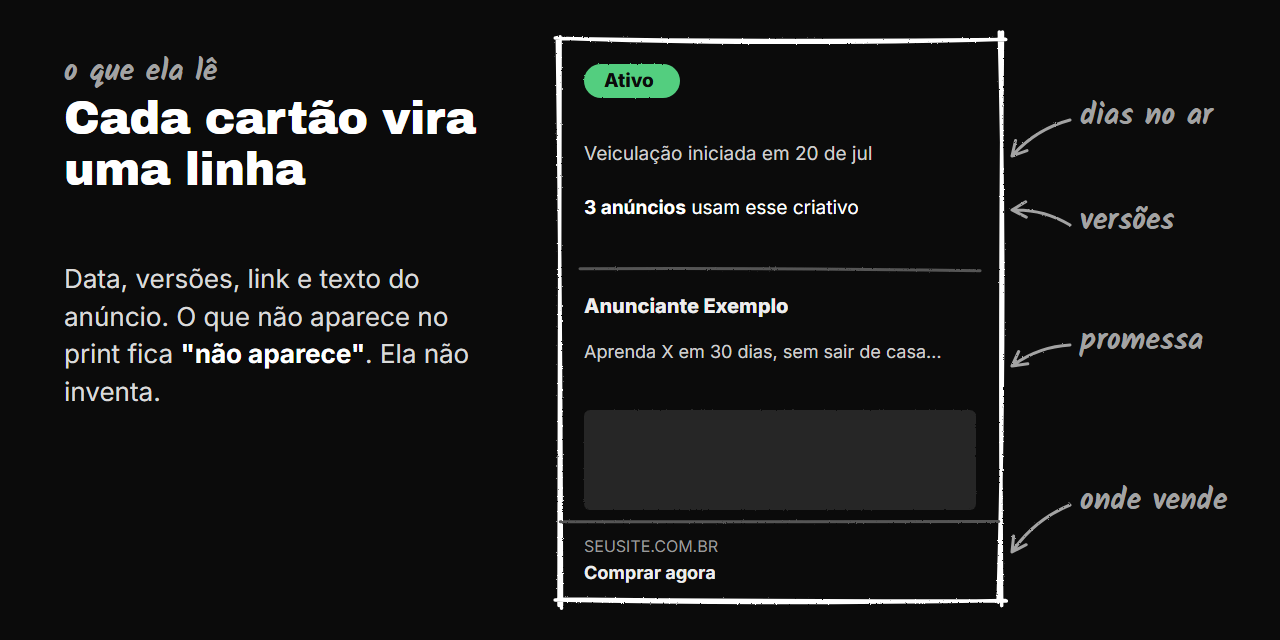
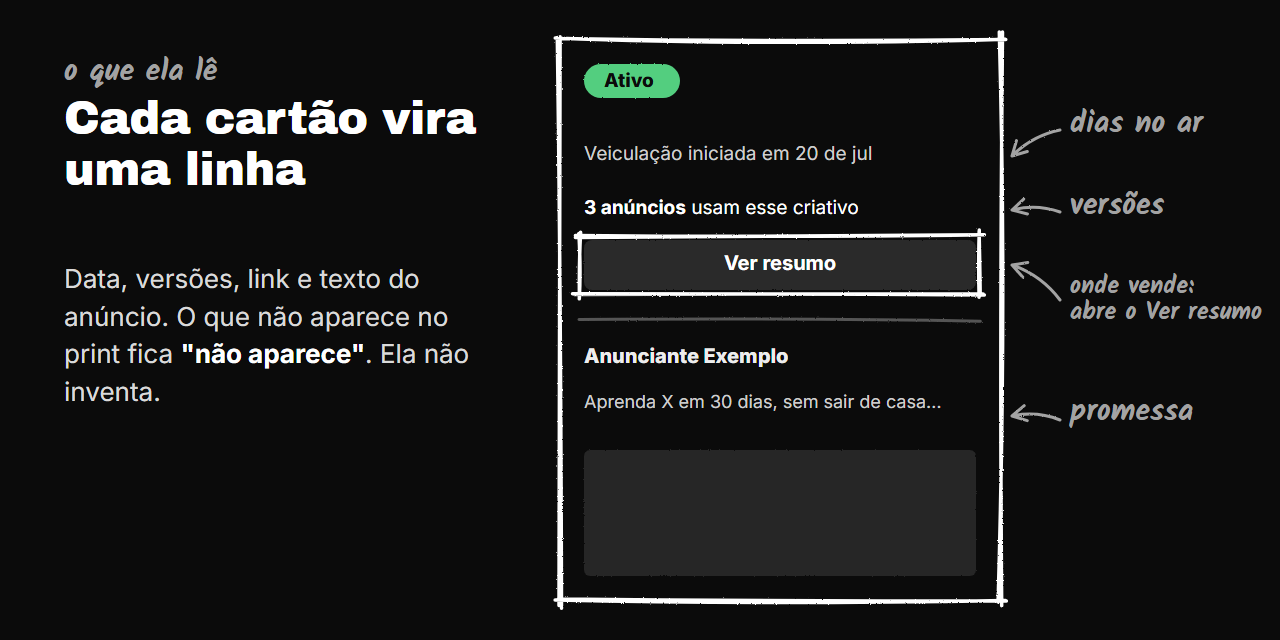
Cartão do README agrupado com Ver resumo (como na Biblioteca real) e domínio do exemplo como seusite.com.br

diff --git a/README.md b/README.md
@@ -26,7 +26,7 @@ Claude (Skill) · claude.ai e Claude Code · Biblioteca de Anúncios grátis, se
 
 > **Por que funciona:** ninguém paga anúncio por meses no prejuízo. Anúncio que roda há muito tempo, com várias versões, costuma ser oferta que vende. **É sinal, não garantia de venda.**
 
-<img src="assets/cartao.png" alt="Cartão de anúncio desenhado com anunciante fictício. Setas mostram o que a Skill lê: data de início (dias no ar), número de anúncios (versões), texto (promessa) e domínio no rodapé (onde vende)." width="100%">
+<img src="assets/cartao.png" alt="Cartão agrupado de anúncio, desenhado com anunciante fictício. Setas mostram o que a Skill lê: data de início (dias no ar), 3 anúncios usam esse criativo (versões), texto (promessa) e o botão Ver resumo, que é onde aparece o site quando o cartão é agrupado (onde vende)." width="100%">
 
 **Regra de ouro:** ela não inventa. Preço, link ou formato que não aparece no print fica como **"não aparece"**.
 
@@ -93,7 +93,7 @@ Depois abre o Claude Code, arrasta os prints pro terminal e escreve `minerar ofe
 | # | Anunciante | Início | Dias no ar | Versões | Onde vende | Preço | Formato | Promessa | Sinal |
 |---|---|---|---|---|---|---|---|---|---|
 | 1 | Exemplo Fit A | 10/05/2026 | 191 | 4 | Hotmart | não aparece | curso | secar a barriga treinando 15 minutos | Forte |
-| 2 | Exemplo Receitas B | 02/08/2026 | 107 | 1 | site próprio (exemplo.com.br) | R$ 27 | e-book | 50 receitas pra emagrecer sem passar fome | Médio |
+| 2 | Exemplo Receitas B | 02/08/2026 | 107 | 1 | site próprio (seusite.com.br) | R$ 27 | e-book | 50 receitas pra emagrecer sem passar fome | Médio |
 | 3 | Exemplo Clínica C | 20/09/2026 | 58 | várias | WhatsApp | não aparece | serviço local | perder peso com acompanhamento semanal | Forte |
 | 4 | Exemplo Mentor D | 09/11/2026 | 8 | 1 | não aparece | não aparece | não aparece | emagrecer depois dos 40 sem academia | Fraco |
 
